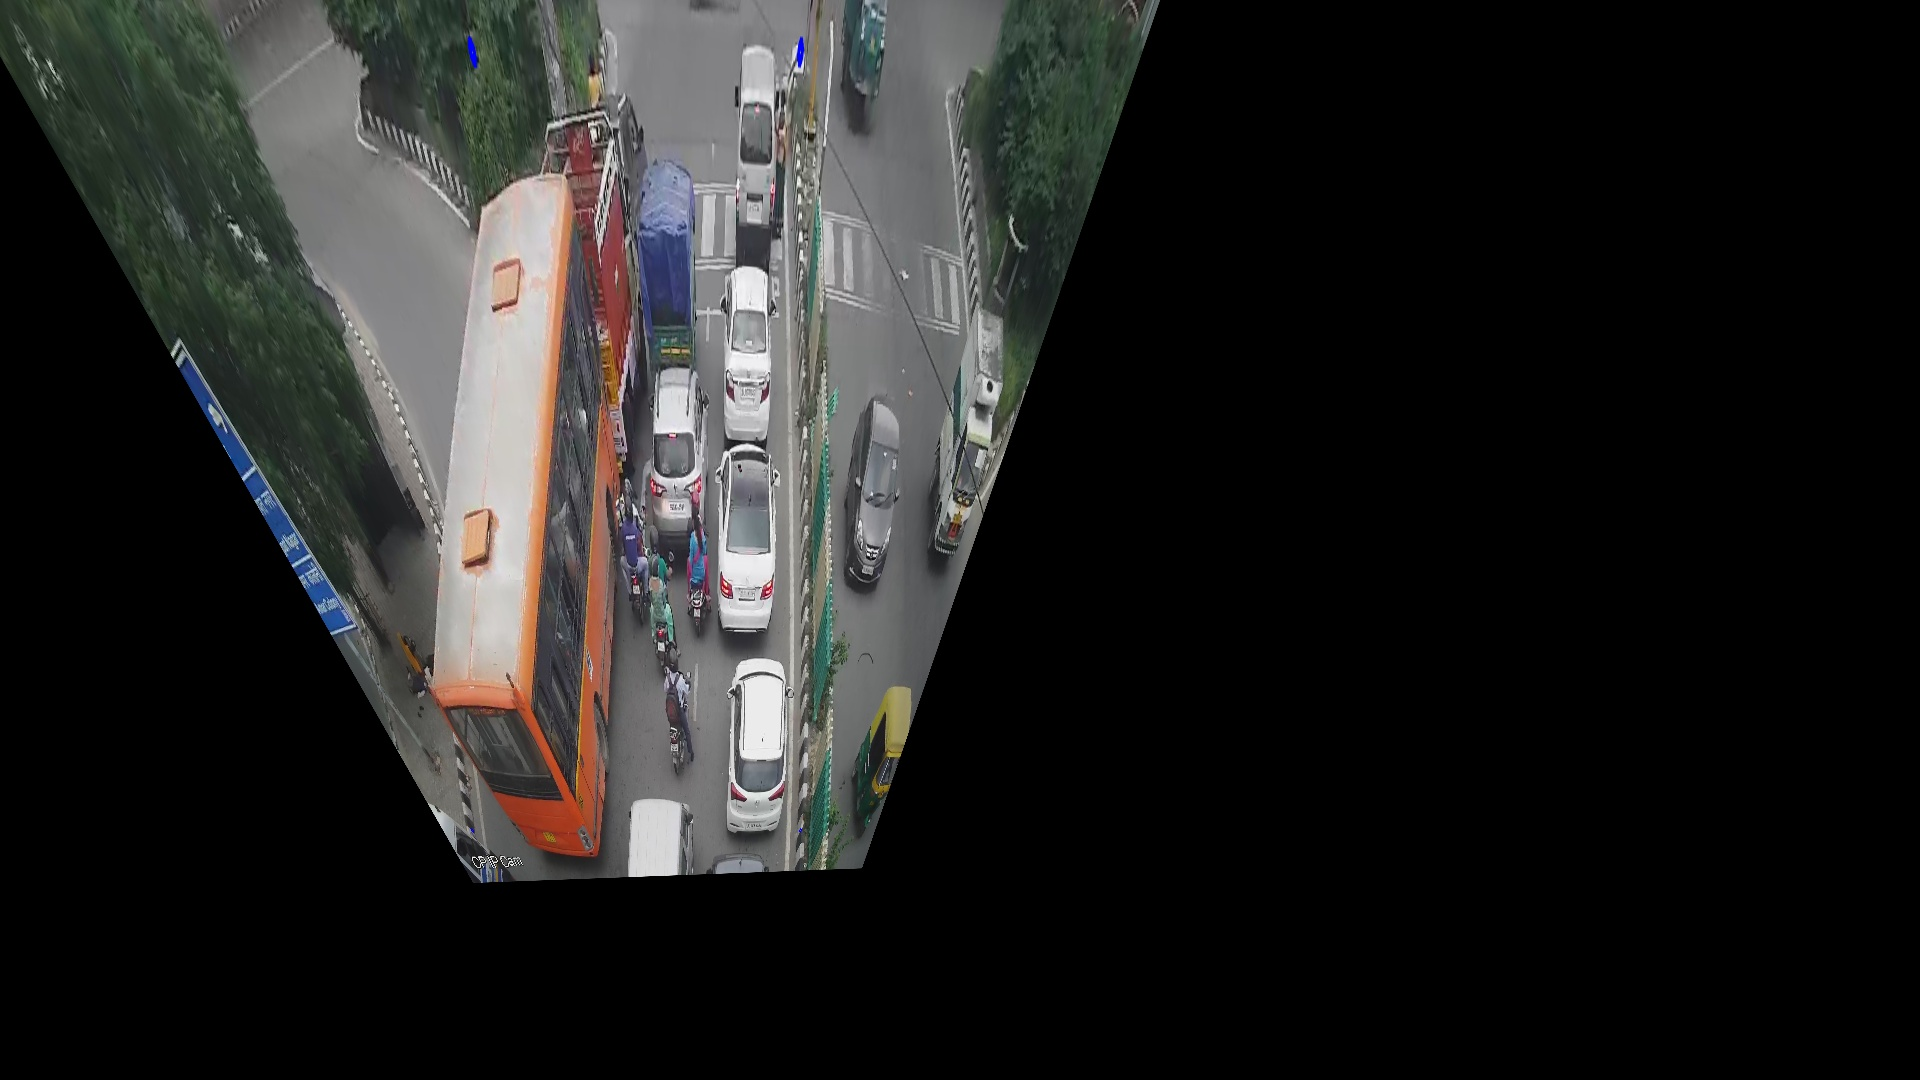
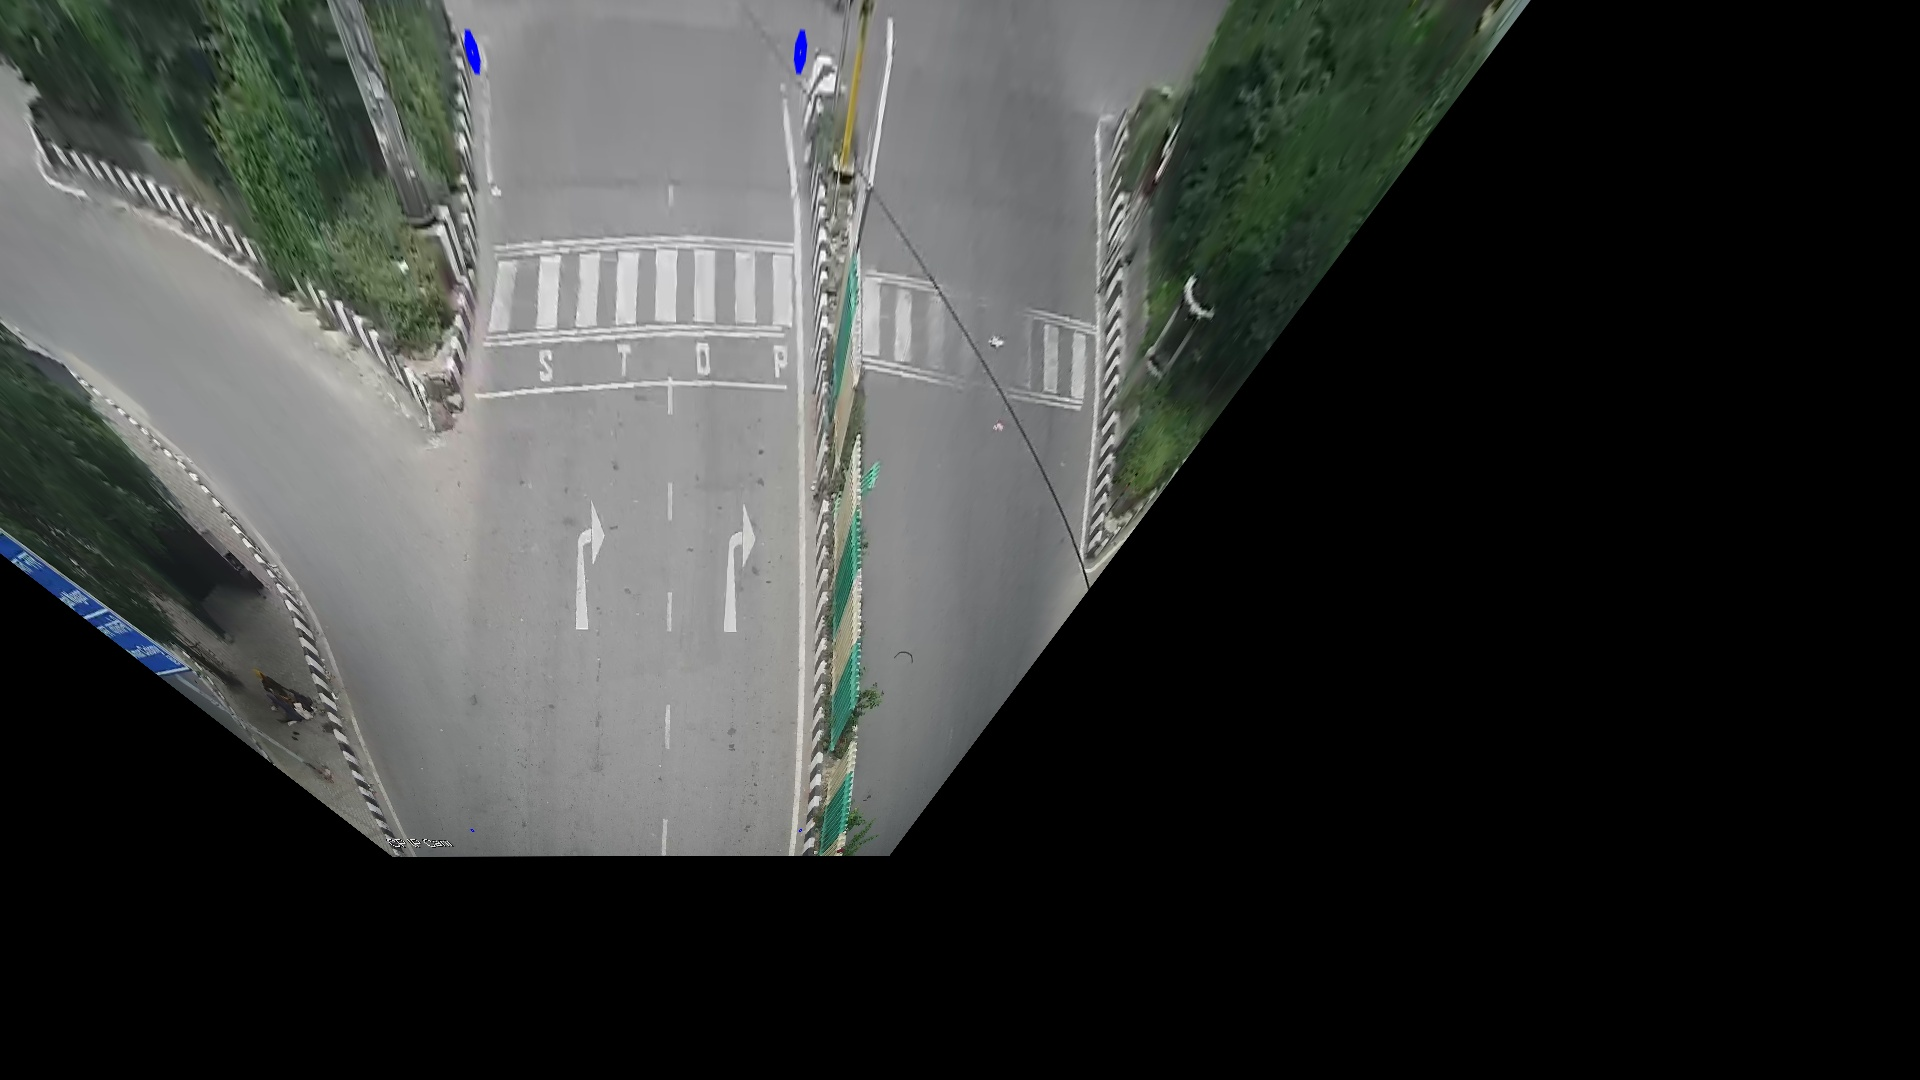
starter code for Assignment-2

diff --git a/A1_2/traffic.cpp b/A1_2/traffic.cpp
@@ -1,0 +1,50 @@
+#include <opencv4/opencv2/opencv.hpp> 
+#include <iostream>
+#include <boost/program_options.hpp>
+#include "perspective.hpp"
+
+using namespace cv;
+using namespace std;
+using namespace boost::program_options;
+
+int main(){
+    string traffic_video = "trafficvideo.mp4";
+    VideoCapture cap(traffic_video);
+
+    vector<Point2f> src; 
+    src.push_back( Point2f(974, 217) ); src.push_back( Point2f(378, 973) ); src.push_back( Point2f(1523, 971) ); src.push_back( Point2f(1272, 209) );
+
+    vector<Point2f> dest; 
+    dest.push_back( Point2f(472, 52) ); dest.push_back( Point2f(472, 830) ); dest.push_back( Point2f(800, 830) ); dest.push_back( Point2f(800,52) );
+
+    vector<int> crop_sz;
+    crop_sz.push_back(372); crop_sz.push_back(52); crop_sz.push_back(458); crop_sz.push_back(808);
+
+    while(1){
+
+        Mat frame;
+        // Capture frame-by-frame
+        cap >> frame;
+    
+        // If the frame is empty, break immediately
+        if (frame.empty())
+        break;
+
+        Mat transformed = perspective_transform(src, dest, crop_sz, frame);
+        // Display the resulting frame
+        imshow( "Frame", transformed );
+
+        // Press  ESC on keyboard to exit
+        char c=(char)waitKey(25);
+        if(c==27)
+        break;
+    }
+ 
+    // When everything done, release the video capture object
+    cap.release();
+
+    // Closes all the frames
+    destroyAllWindows();
+        
+    return 0;
+}

diff --git a/A1_1/homography.cpp b/A1_1/homography.cpp
@@ -74,7 +74,7 @@ int main(int argc, char* argv[]){
           return -1; 
     }
     
-    vector<Point2f> corner_dest; // Destination corner upon applying homography (here it is fixed to some coordinates).
+    vector<Point2f> corner_dest; // Destination corner upon applying homography (here it is fixed to given coordinates).
     corner_dest.push_back( Point2f(472,52) ) ;
     corner_dest.push_back( Point2f(472,830) ) ;
     corner_dest.push_back( Point2f(800,830) ) ;

diff --git a/A1_2/perspective.hpp b/A1_2/perspective.hpp
@@ -1,0 +1,13 @@
+#include <opencv4/opencv2/opencv.hpp> 
+#include <iostream>
+
+using namespace cv;
+using namespace std;
+
+Mat perspective_transform(vector<Point2f> source, vector<Point2f> destination, vector<int> crop_sz, Mat m){
+    Mat H = findHomography(source, destination);
+    Mat warp_img;
+    warpPerspective(m, warp_img, H, m.size());
+    Rect crop(crop_sz[0], crop_sz[1], crop_sz[2], crop_sz[3]);
+    return warp_img(crop);
+}
